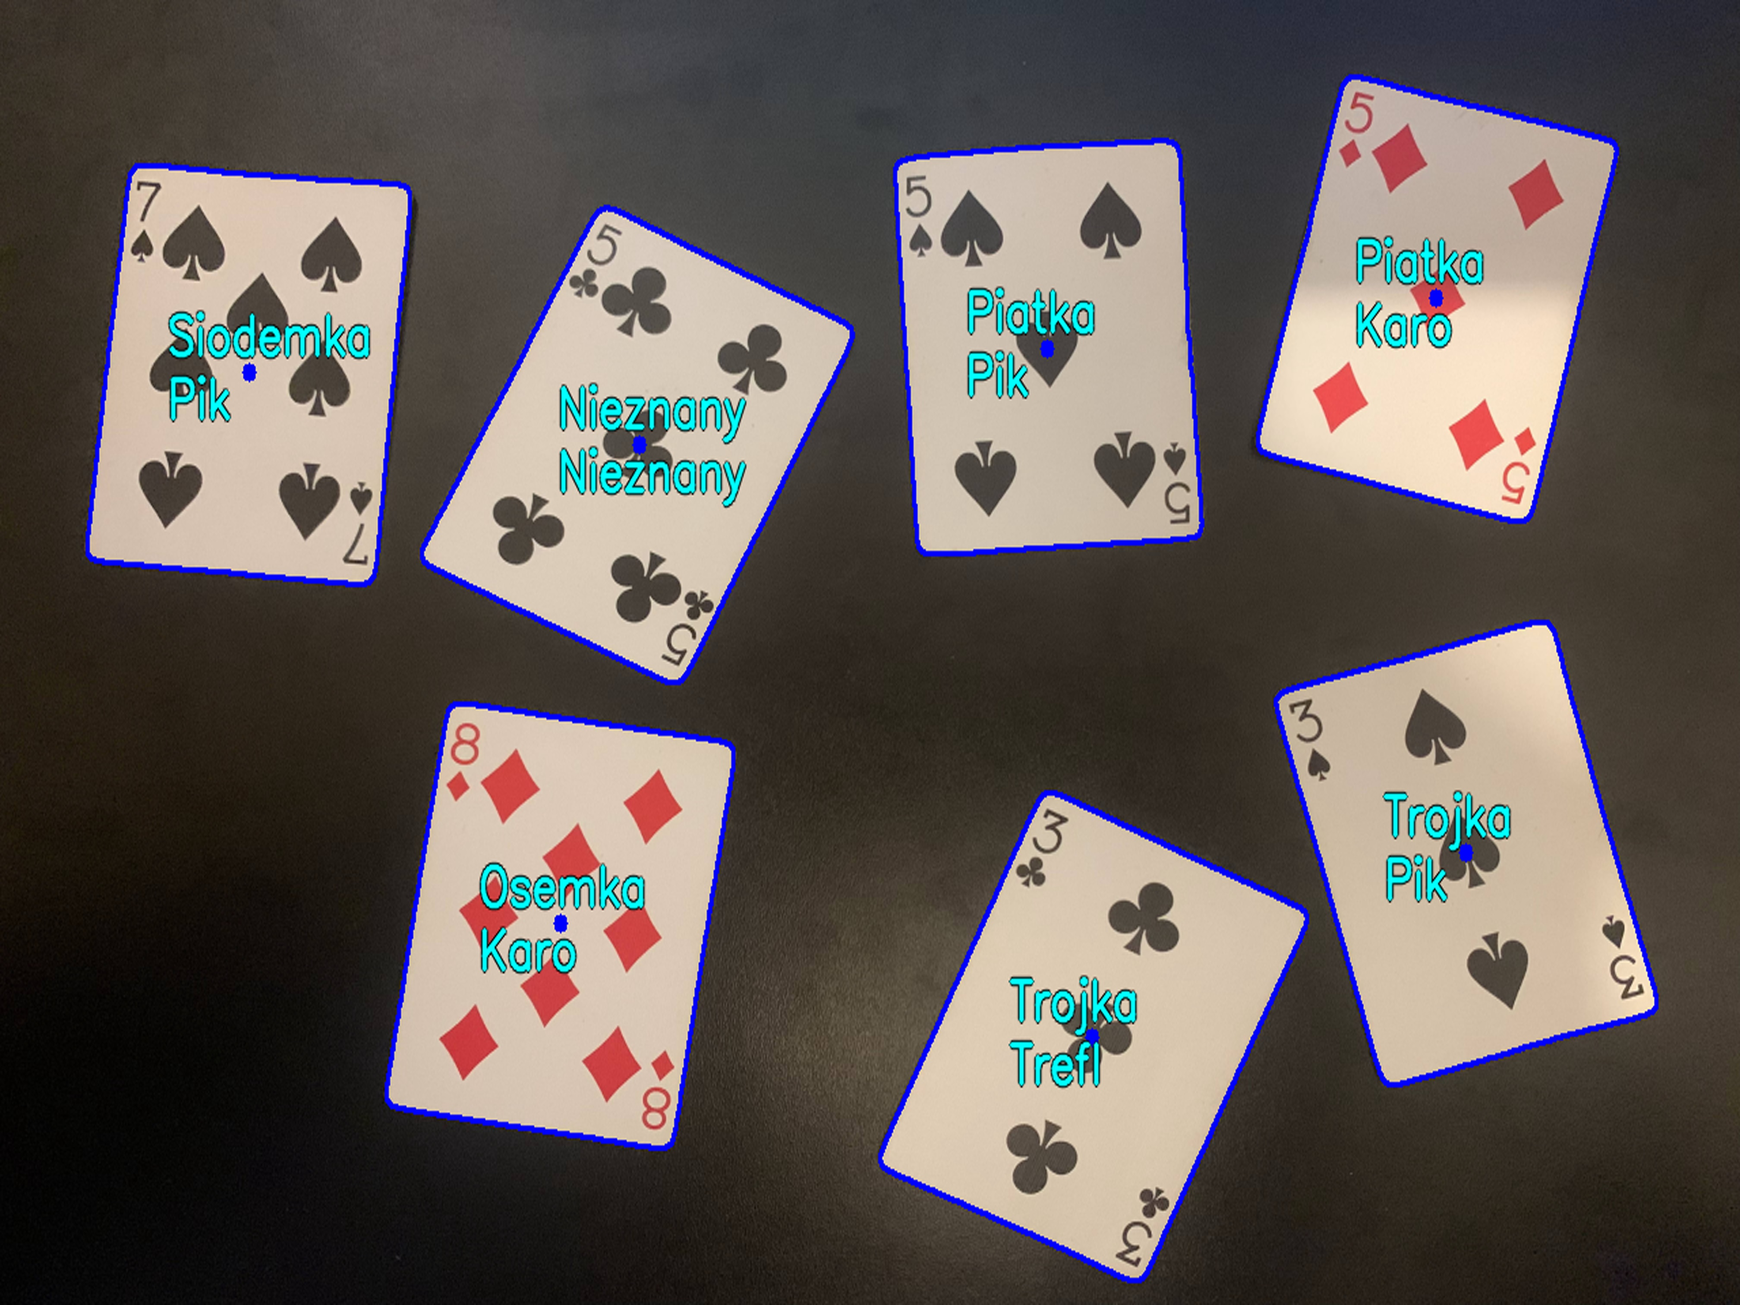
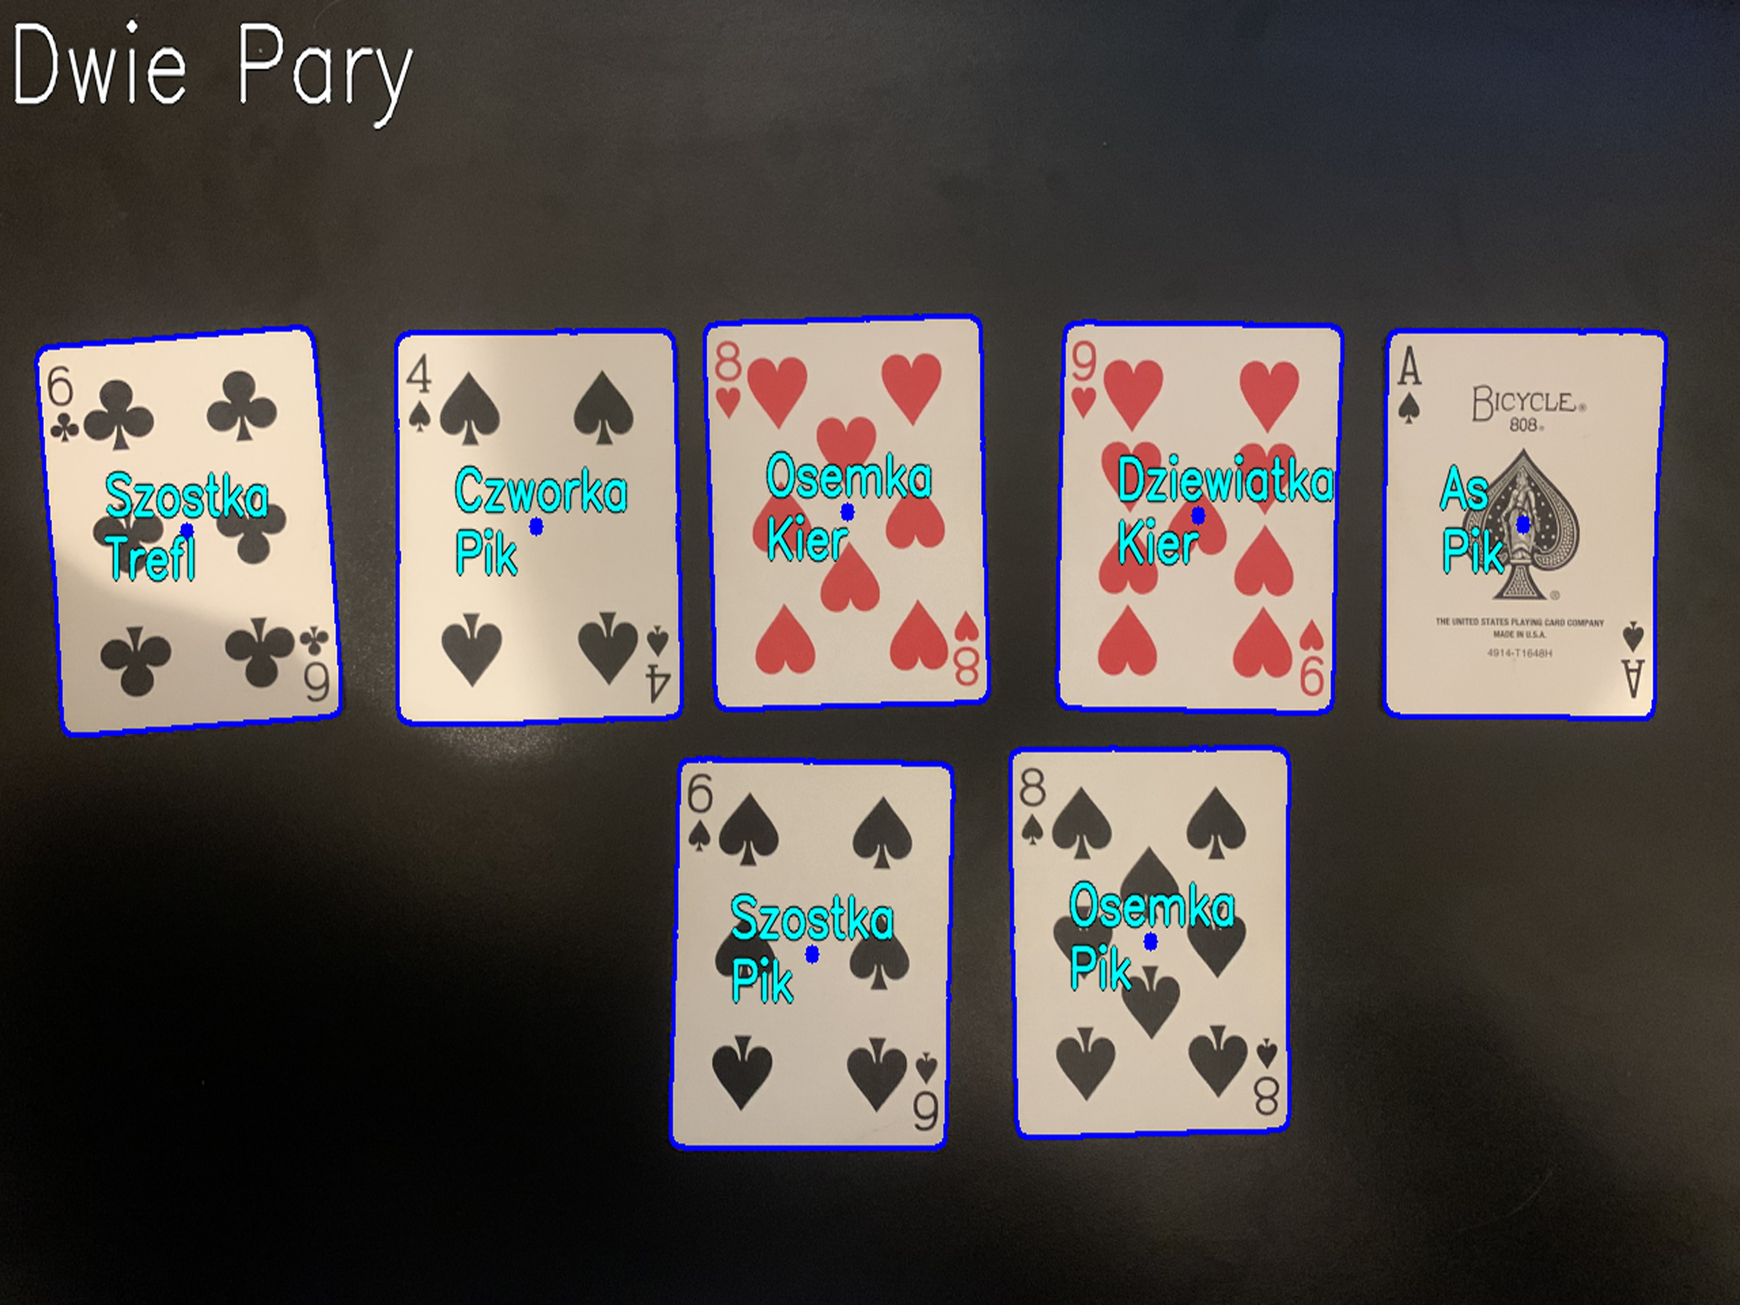
Modified find system algorithm to find specific cards

diff --git a/flask/CardRecognition.py b/flask/CardRecognition.py
@@ -22,6 +22,219 @@ train_ranks = Cards.load_ranks(path + '/Images/')
 train_colors = Cards.load_colors(path + '/Images/')
 
 
+# Algorytm wyszukujący najlepszy układ w pokerze
+def findSystem(cards_info):
+    ranks = ['Dwojka', 'Trojka', 'Czworka', 'Piatka', 'Szostka', 'Siodemka',
+                    'Osemka', 'Dziewiatka', 'Dziesiatka', 'Walet', 'Dama', 'Krol', 'As']
+    results = []
+    final_result = ""
+    valid = True
+    for i in range(len(cards_info)):
+        if(cards_info[i][0] == "Nieznany" or cards_info[i][1] == "Nieznany"):
+            valid = False
+
+    if(valid):
+        if(len(cards_info) < 7 or len(cards_info) > 7):
+            final_result = "Niewlasciwa ilosc kart"
+        else:
+            for i in range(len(cards_info)):
+                for j in range(len(cards_info)):
+                    temp_cards_info = []
+                    if(i != j):
+                        for k in range(len(cards_info)):
+                            if(k != i and k != j):
+                                temp_cards_info.append(cards_info[k])
+
+                        temp_cards_rank = []
+                        temp_cards_color = []
+                        for m in range(len(temp_cards_info)):
+                            temp_cards_rank.append(temp_cards_info[m][0])
+                            temp_cards_color.append(temp_cards_info[m][1])
+
+                        all_same_color = False
+                        color = ""
+                        for l in range(len(temp_cards_color)):
+                            temp_color = temp_cards_color[l]
+                            number = 0
+                            for v in range(len(temp_cards_color)):
+                                if(l != v):
+                                    if(temp_cards_color[v] == temp_color):
+                                        number += 1
+                            if(number == 4):
+                                color = temp_color
+                                all_same_color = True
+
+                        if(all_same_color):
+                            to_be_added = []
+                            for i in range(len(temp_cards_info)):
+                                if(temp_cards_info[i][1] == color):
+                                    to_be_added.append(temp_cards_info[i])
+                            results.append(["Kolor", to_be_added])
+                        if(ranks[8] in temp_cards_rank and ranks[9] in temp_cards_rank and ranks[10] in temp_cards_rank and ranks[11] in temp_cards_rank and ranks[12] in temp_cards_rank):
+                            if(all_same_color):
+                                to_be_added = []
+                                for i in range(len(temp_cards_info)):
+                                    if(temp_cards_info[i][1] == color):
+                                        to_be_added.append(temp_cards_info[i])
+                                results.append(["Poker Krolewski", to_be_added])
+                        for i in range(8):
+                            if(ranks[i+1] in temp_cards_rank and ranks[i+2] in temp_cards_rank and ranks[i+3] in temp_cards_rank and ranks[i+4] in temp_cards_rank and ranks[i+5] in temp_cards_rank):
+                                if(all_same_color):
+                                    to_be_added = []
+                                    for i in range(len(temp_cards_info)):
+                                        if(temp_cards_info[i][1] == color):
+                                            to_be_added.append(temp_cards_info[i])
+                                    results.append(["Poker", to_be_added])
+                                to_be_added = []
+                                for j in range(len(temp_cards_info)):
+                                    if(temp_cards_info[j][0] == ranks[i+1] or temp_cards_info[j][0] == ranks[i+2] or temp_cards_info[j][0] == ranks[i+3] or temp_cards_info[j][0] == ranks[i+4] or temp_cards_info[j][0] == ranks[i+5]):
+                                        to_be_added.append(temp_cards_info[j])
+                                results.append(["Strit", to_be_added])
+
+                        four_same_rank = False
+                        for n in range(len(temp_cards_rank)):
+                            temp_rank = temp_cards_rank[n]
+                            number = 0
+                            for o in range(len(temp_cards_rank)):
+                                if(n != o):
+                                    if(temp_cards_rank[o] == temp_rank):
+                                        number += 1
+                            if(number == 3):
+                                current_rank = temp_rank
+                                four_same_rank = True
+                            
+                        if(four_same_rank):
+                            results.append(["Kareta", temp_cards_info])
+                            
+                        three_same_rank = False
+                        full_rank = False
+                        for n in range(len(temp_cards_rank)):
+                            temp_rank = temp_cards_rank[n]
+                            number = 0
+                            for o in range(len(temp_cards_rank)):
+                                if(n != o):
+                                    if(temp_cards_rank[o] == temp_rank):
+                                        number += 1
+                            if(number == 2):
+                                three_same_rank = True
+                                for p in range(len(temp_cards_rank)):
+                                    temp_rank2 = temp_cards_rank[p]
+                                    number2 = 0
+                                    for r in range(len(temp_cards_rank)):
+                                        if(r != p):
+                                            if(temp_cards_rank[r] == temp_rank2 and temp_rank2 != temp_rank):
+                                                number2 += 1
+                                    if(number2 == 1):
+                                        full_rank = True
+                            
+                        if(three_same_rank):
+                            results.append(["Trojka", temp_cards_info])
+                        if(full_rank):
+                            results.append(["Full", temp_cards_info])
+
+                        two_same_rank = False
+                        pair = 'undefined'
+                        for t in range(len(temp_cards_rank)):
+                            temp_rank = temp_cards_rank[t]
+                            number = 0
+                            for q in range(len(temp_cards_rank)):
+                                if(t != q):
+                                    if(temp_cards_rank[q] == temp_rank):
+                                        number += 1
+                                        pair = temp_rank
+                            if(number == 1):
+                                two_same_rank = True
+                                results.append(["Para", temp_cards_info])
+
+                        if(two_same_rank):
+                            for e in range(len(temp_cards_rank)):
+                                if(temp_cards_rank[e] != pair):
+                                    temp_rank = temp_cards_rank[e]
+                                    number = 0
+                                    for d in range(len(temp_cards_rank)):
+                                        if(e != d):
+                                            if(temp_cards_rank[d] == temp_rank):
+                                                number += 1
+                                    if(number == 1):
+                                        results.append(["Dwie Pary", temp_cards_info])
+
+        if(results == [] and final_result == ""):
+            to_be_removed = []
+            for i in range(len(cards_info)):
+                temp_card_rank = ranks.index(cards_info[i][0])
+                number = 0
+                for j in range(len(cards_info)):
+                    if(i != j):
+                        if(ranks.index(cards_info[j][0]) > temp_card_rank):
+                            number += 1
+                if(number >= 5):
+                    to_be_removed.append(cards_info[i][0])
+
+            five_cards_list = []
+            for i in range(len(cards_info)):
+                if(cards_info[i] not in to_be_removed):
+                    five_cards_list.append(cards_info[i])
+            results.append(["Wysoka karta", five_cards_list])
+
+        ranking = ["Poker Krolewski", "Poker", "Kareta", "Full", "Kolor", "Strit", "Trojka", "Dwie Pary", "Para", "Wysoka karta"]
+
+
+        results2 = []
+        for i in range(len(ranking)):
+            if(results2 != []):
+                continue
+            else:
+                for j in range(len(results)):
+                    if(results[j][0] == ranking[i]):
+                        results2.append(results[j])
+        
+        combinations = []
+        for i in range(len(results2)):
+            for j in range(len(results2[i][1])):
+                if(len(results2[i][1]) == 5):
+                    combinations.append(results2[i])
+                elif(len(results2[i][1]) == 6):
+                    cards_info = results2[i][1]
+                    index = 0
+                    for l in range(len(cards_info)):
+                        temp_cards_info = []
+                        for m in range(len(cards_info)):
+                            if(m != index):
+                                temp_cards_info.append(cards_info[m])
+                        index += 1
+                        combinations.append([results2[i][0], temp_cards_info])
+                elif(len(results2[i][1]) == 7):
+                    cards_info = results2[i][1]
+                    for l in range(len(cards_info)):
+                        for m in range(len(cards_info)):
+                            temp_cards_info = []
+                            if(l != m):
+                                for k in range(len(cards_info)):
+                                    if(k != l and k != m):
+                                        temp_cards_info.append(cards_info[k])
+                            combinations.append([results2[i][0], temp_cards_info])
+
+        points_array = []
+        for i in range(len(combinations)):
+            points = 0
+            for j in range(len(combinations[i][1])):
+                if(len(combinations[i][1])==5):
+                    for k in range(len(ranks)):
+                        if(combinations[i][1][j][0] == ranks[k]):
+                            points += (k + 1)
+            points_array.append([combinations[i], points])
+        
+        sorted_points_array = sorted(points_array, key=lambda x: x[1], reverse=True)
+        # print(sorted_points_array[0])
+
+        if(final_result != "Niewlasciwa ilosc kart"):
+           final_result = results2[0][0]
+    else:
+        final_result = "Nie odczytano poprawnie wszystkich kart"
+    return final_result
+
+
+# Funkcja zwracajaca informacje o przerobionym obrazie wejściowym
 def drawImage(img):
     global frame_rate_calc
     dim = (IM_WIDTH, IM_HEIGHT)
@@ -58,160 +271,12 @@ def drawImage(img):
                 cards_info.append([rank_name, color_name])
                 k += 1
 
-        # Algorytm wyszukujący najlepszy układ w pokerze
-        ranks = ['Dwojka', 'Trojka', 'Czworka', 'Piatka', 'Szostka', 'Siodemka',
-                 'Osemka', 'Dziewiatka', 'Dziesiatka', 'Walet', 'Dama', 'Krol', 'As']
-        results = []
-        final_result = ""
-        valid = True
-        for i in range(len(cards_info)):
-            if(cards_info[i][0] == "Nieznany" or cards_info[i][1] == "Nieznany"):
-                valid = False
-
-        if(valid):
-            if(len(cards_info) < 7 or len(cards_info) > 7):
-                final_result = "Niewłaściwa ilość kart"
-            else:
-                for i in range(len(cards_info)):
-                    for j in range(len(cards_info)):
-                        temp_cards_info = []
-                        if(i != j):
-                            for k in range(len(cards_info)):
-                                if(k != i and k != j):
-                                    temp_cards_info.append(cards_info[k])
-
-                            temp_cards_rank = []
-                            temp_cards_color = []
-                            for m in range(len(temp_cards_info)):
-                                temp_cards_rank.append(temp_cards_info[m][0])
-                                temp_cards_color.append(temp_cards_info[m][1])
-
-                            all_same_color = False
-                            for l in range(len(temp_cards_color)):
-                                temp_color = temp_cards_color[l]
-                                number = 0
-                                for v in range(len(temp_cards_color)):
-                                    if(l != v):
-                                        if(temp_cards_color[v] == temp_color):
-                                            number += 1
-                                if(number == 4):   
-                                    all_same_color = True
-
-                            if(all_same_color):
-                                results.append(["Kolor", temp_cards_info])
-                            if(ranks[8] in temp_cards_rank and ranks[9] in temp_cards_rank and ranks[10] in temp_cards_rank and ranks[11] in temp_cards_rank and ranks[12] in temp_cards_rank):
-                                if(all_same_color):
-                                    results.append(["Poker Królewski", temp_cards_info])
-                            for i in range(8):
-                                if(ranks[i+1] in temp_cards_rank and ranks[i+2] in temp_cards_rank and ranks[i+3] in temp_cards_rank and ranks[i+4] in temp_cards_rank and ranks[i+5] in temp_cards_rank):
-                                    if(all_same_color):
-                                            results.append(["Poker", temp_cards_info])
-                                    results.append(["Strit", temp_cards_info])
-
-                            four_same_rank = False
-                            for n in range(len(temp_cards_rank)):
-                                temp_rank = temp_cards_rank[n]
-                                number = 0
-                                for o in range(len(temp_cards_rank)):
-                                    if(n != o):
-                                        if(temp_cards_rank[o] == temp_rank):
-                                            number += 1
-                                if(number == 3):
-                                    four_same_rank = True
-                            
-                            if(four_same_rank):
-                                results.append(["Kareta", temp_cards_info])
-                            
-                            three_same_rank = False
-                            full_rank = False
-                            for n in range(len(temp_cards_rank)):
-                                temp_rank = temp_cards_rank[n]
-                                number = 0
-                                for o in range(len(temp_cards_rank)):
-                                    if(n != o):
-                                        if(temp_cards_rank[o] == temp_rank):
-                                            number += 1
-                                if(number == 2):
-                                    three_same_rank = True
-                                    for p in range(len(temp_cards_rank)):
-                                        temp_rank2 = temp_cards_rank[p]
-                                        number2 = 0
-                                        for r in range(len(temp_cards_rank)):
-                                            if(r != p):
-                                                if(temp_cards_rank[r] == temp_rank2 and temp_rank2 != temp_rank):
-                                                    number2 += 1
-                                        if(number2 == 1):
-                                            full_rank = True
-                            
-                            if(three_same_rank):
-                                results.append(["Trójka", temp_cards_info])
-                            if(full_rank):
-                                results.append(["Full", temp_cards_info])
-
-                            two_same_rank = False
-                            pair = 'undefined'
-                            for t in range(len(temp_cards_rank)):
-                                temp_rank = temp_cards_rank[t]
-                                number = 0
-                                for q in range(len(temp_cards_rank)):
-                                    if(t != q):
-                                        if(temp_cards_rank[q] == temp_rank):
-                                            number += 1
-                                            pair = temp_rank
-                                if(number == 1):
-                                    two_same_rank = True
-                                    results.append(["Para", temp_cards_info])
-
-                            if(two_same_rank):
-                                for e in range(len(temp_cards_rank)):
-                                    if(temp_cards_rank[e] != pair):
-                                        temp_rank = temp_cards_rank[e]
-                                        number = 0
-                                        for d in range(len(temp_cards_rank)):
-                                            if(e != d):
-                                                if(temp_cards_rank[d] == temp_rank):
-                                                    number += 1
-                                        if(number == 1):
-                                            results.append(["Dwie Pary", temp_cards_info])
-
-            if(results == []):
-                to_be_removed = []
-                for i in range(len(cards_info)):
-                    temp_card_rank = ranks.index(cards_info[i][0])
-                    number = 0
-                    for j in range(len(cards_info)):
-                        if(i != j):
-                            if(ranks.index(cards_info[j][0]) > temp_card_rank):
-                                number += 1
-                    if(number >= 5):
-                        to_be_removed.append(cards_info[i][0])
-
-                five_cards_list = []
-                for i in range(len(cards_info)):
-                    if(cards_info[i] not in to_be_removed):
-                        five_cards_list.append(cards_info[i])
-                results.append(["Wysoka karta", five_cards_list])
-
-            ranking = ["Poker Królewski", "Poker", "Kareta", "Full", "Kolor", "Strit", "Trójka", "Dwie Pary", "Para", "Wysoka karta"]
-            results2 = []
-            for i in range(len(ranking)):
-                if(results2 != []):
-                    continue
-                else:
-                    for j in range(len(results)):
-                        if(results[j][0] == ranking[i]):
-                            results2.append(results[j])
-                
-            final_result = results2[0][0]
-        else:
-            final_result = "Nie odczytano poprawnie wszystkich kart"
-        
-        print(final_result)
+        # Wykorzystanie algorytmu wyszukującego najlepszy układ w pokerze
+        final_result = findSystem(cards_info)
 
         # Wypisanie najlepszej mozliwej kombinacji podanych kart
-        # if(final_result != "Niewłaściwa ilość kart"):
-        #     cv2.putText(image, final_result, (IM_WIDTH/2, IM_HEIGHT/2), font, 1, (0, 0, 0), 3, cv2.LINE_AA)
-        #     cv2.putText(image, final_result, (IM_WIDTH/2, IM_HEIGHT/2), font, 1, (255, 255, 0), 2, cv2.LINE_AA)
+        cv2.putText(image, final_result, (5, IM_HEIGHT//2 - 305), font, 1.95, (0, 0, 0), 3, cv2.LINE_AA)
+        cv2.putText(image, final_result, (5, IM_HEIGHT//2 - 305), font, 1.95, (255, 255, 255), 2, cv2.LINE_AA)
 
         # Narysowanie konturu na wejściowym obrazku
         if (len(cards) != 0):
